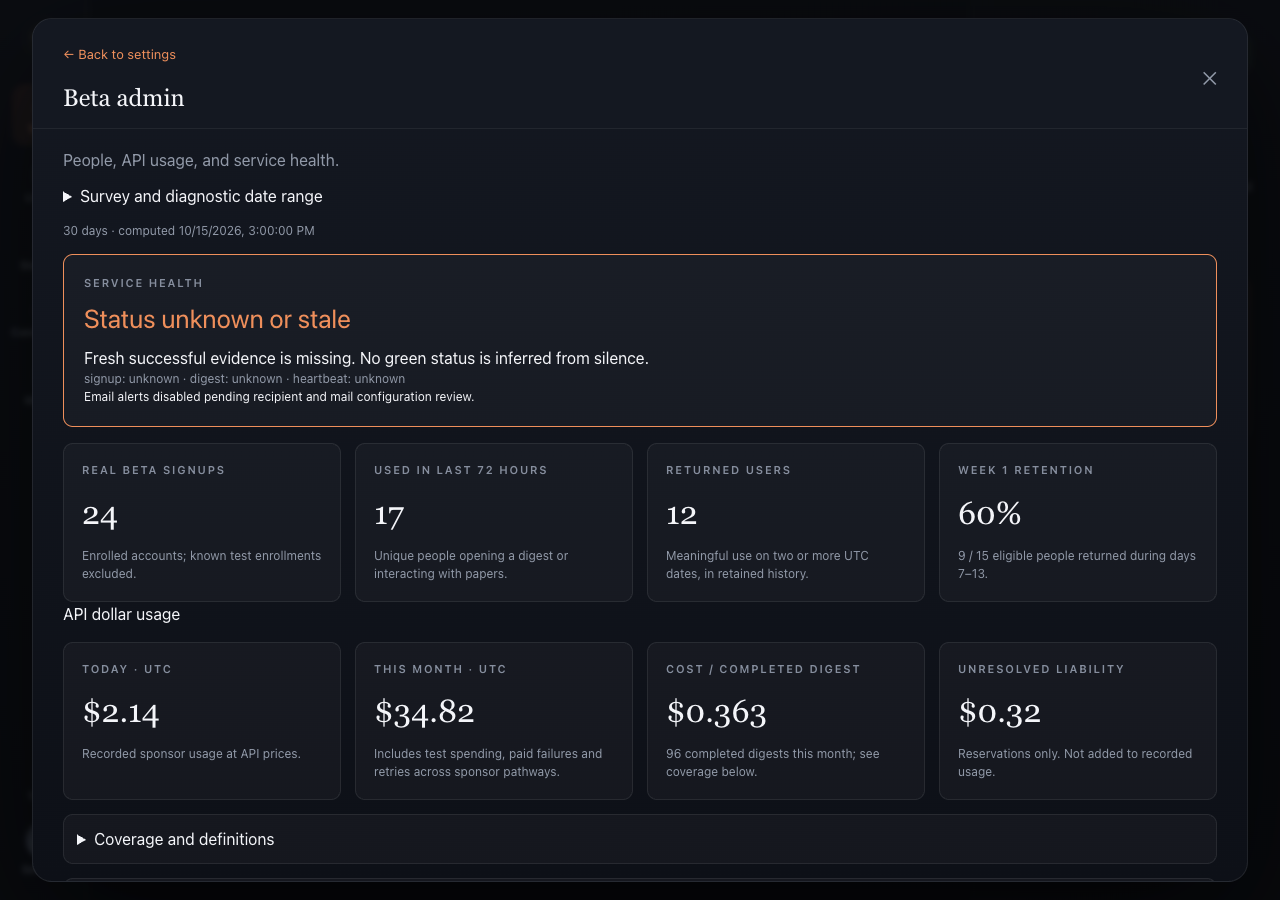
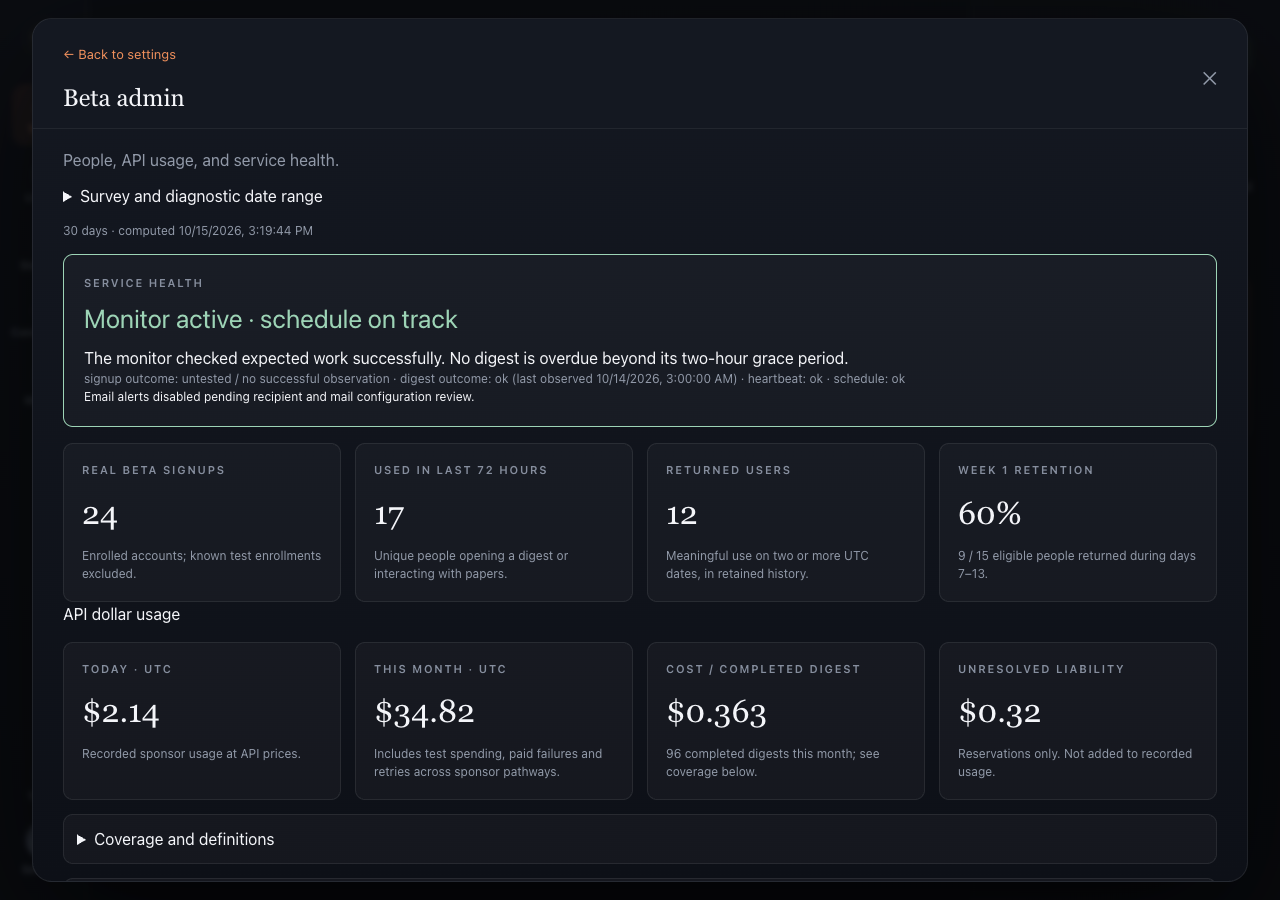
Monitor expected digest work independently of quiet usage

Changed region(s): [[0.0625, 0.3422, 0.6562, 0.4356], [0.1875, 0.2489, 0.25, 0.28], [0.6562, 0.4044, 0.6875, 0.4356]]

diff --git a/src/components/AdminDashboard.jsx b/src/components/AdminDashboard.jsx
@@ -138,17 +138,17 @@ export function ReleaseOverview({ stats }) {
   const a = stats.adoption || {}, s = stats.spend || {}, h = stats.health || {}
   const checks = (h.checks || []).map(c => {
     const age = now - Date.parse(c.checked_at)
-    return { ...c, state: !Number.isFinite(age) || age < 0 ? 'unknown' : age > 900000 ? 'stale' : c.state }
+    return { ...c, state: c.state === 'failed' ? 'failed' : ['heartbeat', 'schedule'].includes(c.name) && (!Number.isFinite(age) || age < 0 || age > 900000) ? 'stale' : c.state }
   })
-  const failed = checks.some(c => c.state === 'failed')
-  const healthy = checks.length === 3 && checks.every(c => c.state === 'ok' && now - Date.parse(c.checked_at) <= 900000 && Date.parse(c.checked_at) <= now) && !h.mail_failed
-  const status = failed ? 'Needs attention' : healthy ? 'Monitored checks passing' : 'Status unknown or stale'
+  const failed = checks.some(c => c.state === 'failed') || h.mail_failed
+  const healthy = ['heartbeat', 'schedule'].every(name => checks.some(c => c.name === name && c.state === 'ok')) && !failed
+  const status = failed ? 'Needs attention' : healthy ? 'Monitor active · schedule on track' : 'Status unknown or stale'
   const color = failed ? '#f0a9a4' : healthy ? 'var(--color-verified-soft)' : 'var(--color-accent)'
   return <>
     <section aria-label="Service health" style={{ ...panel, borderColor: color, padding: 20 }}>
       <p style={eyebrow}>Service health</p><h3 style={{ color, fontSize: 26, margin: '8px 0' }}>{status}</h3>
-      <p style={{ margin: 0 }}> {failed ? 'Repeated failures need investigation.' : healthy ? 'Fresh deterministic checks succeeded. This does not verify external email delivery or model output.' : 'Fresh successful evidence is missing. No green status is inferred from silence.'}</p>
-      <p style={{ fontSize: 12, color: 'var(--color-fg-muted)' }}>{checks.map(c => `${c.name}: ${c.state}`).join(' · ') || 'Monitoring has not reported yet.'}</p>
+      <p style={{ margin: 0 }}> {failed ? 'Sustained failures, overdue work, or alert delivery need investigation.' : healthy ? 'The monitor checked expected work successfully. No digest is overdue beyond its two-hour grace period.' : 'The monitor or expected-work check is missing or stale. Last observed failures remain visible.'}</p>
+      <p style={{ fontSize: 12, color: 'var(--color-fg-muted)' }}>{checks.map(c => `${['signup', 'digest'].includes(c.name) ? c.name + ' outcome' : c.name}: ${c.state === 'unknown' && ['signup', 'digest'].includes(c.name) ? 'untested / no successful observation' : c.state}${['signup', 'digest'].includes(c.name) && c.checked_at ? ' (last observed ' + new Date(c.checked_at).toLocaleString() + ')' : ''}`).join(' · ') || 'Monitoring has not reported yet.'}</p>
       <p style={{ fontSize: 12 }}>{h.mail_failed ? 'Alert delivery failed; operator follow-up required.' : h.alerts_enabled ? 'Incident delivery configured; pending messages: ' + (h.pending_emails || 0) : 'Email alerts disabled pending recipient and mail configuration review.'}</p>
     </section>
     <Cards rows={[
@@ -168,7 +168,7 @@ export function ReleaseOverview({ stats }) {
       <p>Adoption excludes automatic generation, app launches, permission checks, and known test enrollments. Multiple actions count once per person; returned users need two UTC dates. Events are observational and may be incomplete.</p>
       <p>Week 1 retention: all real enrollments after observation began, at least 14 days old; numerator is people with meaningful use in days 7–13 after enrollment. Non-users stay in the denominator. Observation began {a.coverage_since ? new Date(a.coverage_since).toLocaleString() : 'at an unknown time'}. Active access now: {a.access_now ?? 'unknown'} (permission only).</p>
       <p>Average is this month's total sponsor API usage divided by completed scheduled digest-days plus completed non-append browser digests for sponsored accounts. This is an operational blended cost, not exact per-job attribution; it includes other sponsor-paid features, failures, retries, and test work. Completion telemetry can be incomplete. BYOK costs are device-local and excluded. Recorded usage is estimated from token prices or operator reconciliation, not a provider invoice.</p>
-      <p>Monitoring covers beta enrollment responses and scheduled digest outcomes, with a 15-minute freshness limit. It does not probe authentication email delivery, browser-only failures, or provider availability. An absent monitor cannot email about its own outage; the dashboard reports unknown/stale.</p>
+      <p>Monitor and expected-work checks expire after 15 minutes. Signup and digest outcomes are last-observed evidence, not continuous capability tests. Expected work follows the configured local daily hour, active access, and unopened-digest gate; a single slot overdue by two hours is actionable. No weekly scheduler configuration exists in this release. It does not probe authentication email delivery, browser-only failures, or provider availability. An absent monitor cannot email about its own outage; the dashboard reports unknown/stale.</p>
       <p>Provider credit balance, grant consumption versus cash charge: unavailable. {s.released_unknown ?? 0} released attempts have no settled charge; this does not prove zero provider billing. Earliest spend record: {s.first_record || 'none'}.</p>
     </details>
   </>

diff --git a/src/components/AdminDashboard.test.js b/src/components/AdminDashboard.test.js
@@ -97,13 +97,19 @@ describe('AdminDashboard', () => {
 
 for (const [name, checks, expected] of [
   ['missing', [], 'Status unknown or stale'],
-  ['fresh', ['signup','digest','heartbeat'].map(name=>({name,state:'ok',checked_at:new Date().toISOString()})), 'Monitored checks passing'],
-  ['stale', ['signup','digest','heartbeat'].map(name=>({name,state:'ok',checked_at:'2000-01-01T00:00:00Z'})), 'Status unknown or stale'],
-  ['stale failure', [{name:'signup',state:'failed',checked_at:'2000-01-01T00:00:00Z'}], 'Status unknown or stale'],
+  ['fresh', ['signup','digest','heartbeat','schedule'].map(name=>({name,state:'ok',checked_at:new Date().toISOString()})), 'Monitor active · schedule on track'],
+  ['stale', ['signup','digest','heartbeat','schedule'].map(name=>({name,state:'ok',checked_at:'2000-01-01T00:00:00Z'})), 'Status unknown or stale'],
+  ['stale failure', [{name:'signup',state:'failed',checked_at:'2000-01-01T00:00:00Z'}], 'Needs attention'],
   ['sustained failure', [{name:'signup',state:'failed',checked_at:new Date().toISOString()}], 'Needs attention'],
 ]) it(`renders ${name} monitoring honestly`,async()=>{
   await dom.render(React.createElement(ReleaseOverview,{stats:{health:{checks},adoption:{eligible:0},spend:{completed:0}}}))
   expect(dom.text()).toContain(expected)
   expect(dom.text()).toContain('Insufficient history')
   expect(dom.text()).toContain('Unknown')
+})
+
+it('shows quiet schedule health separately from untested signup',async()=>{
+ await dom.render(React.createElement(ReleaseOverview,{stats:{health:{checks:[{name:'signup',state:'unknown'}, {name:'digest',state:'ok',checked_at:'2000-01-01T00:00:00Z'}, ...['heartbeat','schedule'].map(name=>({name,state:'ok',checked_at:new Date().toISOString()}))]}}}))
+ expect(dom.text()).toContain('Monitor active · schedule on track')
+ expect(dom.text()).toContain('untested / no successful observation')
 })

diff --git a/src/lib/betaAdmin.fixture.js b/src/lib/betaAdmin.fixture.js
@@ -4,7 +4,7 @@ export const STATS = {
   generated_at: '2026-10-15T01:00:00+00:00',
   adoption: { signups: 24, active72: 17, returned: 12, eligible: 15, retained: 9, access_now: 24, coverage_since: '2026-09-01T00:00:00Z', complete72: true },
   spend: { today: 2.14, month: 34.82, completed: 96, outstanding: 0.32, released_unknown: 1, first_record: '2026-09-01T00:00:00Z' },
-  health: { checks: ['signup','digest','heartbeat'].map(name => ({name, state:'unknown', checked_at:null})), alerts_enabled:false },
+  health: { checks: [{name:'signup',state:'unknown',checked_at:null},{name:'digest',state:'ok',checked_at:'2026-10-14T10:00:00Z'},...['heartbeat','schedule'].map(name => ({name, state:'ok', checked_at:new Date().toISOString()}))], alerts_enabled:false },
   users: { new_in_range: 2, total: 3, active: 2 },
   scheduled: { ticks: 9, manual_ticks: 1, users_any: 3, users_manual: 1, user_days: 5, generated: 2, empty: 1, failed: 1, unfinished: 1, failure_ticks: 3, retry_ticks: 2, summaries: 6 },
   browser: { runs: 3, users: 2, generated: 2, empty: 1, with_errors: 1, append_runs: 1, summaries: 3 },

diff --git a/supabase/functions/beta-monitor/handler.js b/supabase/functions/beta-monitor/handler.js
@@ -1,6 +1,6 @@
 // No raw error text, account identifier, email, NPI, paper, or event payload enters mail.
 export function incidentEmail(event) {
-  if (!['signup', 'digest', 'heartbeat'].includes(event?.check) || !['incident', 'recovery'].includes(event?.kind)) throw new Error('Invalid alert')
+  if (!['signup', 'digest', 'heartbeat', 'schedule'].includes(event?.check) || !['incident', 'recovery'].includes(event?.kind)) throw new Error('Invalid alert')
   const label = event.kind === 'incident' ? 'Needs attention' : 'Recovered'
   return { subject: `Verastar: ${event.check} — ${label}`, text: `${event.check}: ${label}. Open Beta admin for current monitored evidence. No participant data is included in this message.` }
 }

diff --git a/src/lib/betaMonitor.test.js b/src/lib/betaMonitor.test.js
@@ -34,3 +34,7 @@ describe('deterministic beta monitoring', () => {
     await expect(observeSignup({rpc},503)).resolves.toBeUndefined()
   })
 })
+
+it('formats overdue schedule alerts without participant data', () => {
+ expect(incidentEmail({check:'schedule',kind:'incident',user_id:'private',error:'secret'})).toEqual({subject:'Verastar: schedule — Needs attention',text:'schedule: Needs attention. Open Beta admin for current monitored evidence. No participant data is included in this message.'})
+})

diff --git a/docs/BETA_RELEASE_20261015.md b/docs/BETA_RELEASE_20261015.md
@@ -20,7 +20,7 @@ Targeted regressions cover different-account/same-NPI concurrent requests, both 
 
 ## Verification
 
-- `npm test`: 135 files; 2,582 passed, 3 existing expected failures, 15 existing todo.
+- `npm test`: 135 files; 2,584 passed, 3 existing expected failures, 15 existing todo.
 - `npm run lint`: no new diagnostics (9 baseline errors, 9 baseline warnings).
 - `npm run build`: passed; existing SDK browser-externalization and bundle-size warnings.
 - `npm run bundle:functions`: passed; generated pipeline bundle unchanged.
@@ -32,9 +32,9 @@ Targeted regressions cover different-account/same-NPI concurrent requests, both 
 
 ## Release gates — not executed
 
-1. Approve release, then apply forward migrations `20261015180000_beta_release.sql`, `20261015181000_beta_monitor.sql`, and `20261015182000_beta_release_review.sql` after the existing dashboard migration. Deploy `match-npi`, `redeem-invite`, `digest-run`, `beta-monitor`, and the frontend. Old dashboard RPC remains available during rollout.
+1. Approve release, then apply forward migrations `20261015180000_beta_release.sql`, `20261015181000_beta_monitor.sql`, `20261015182000_beta_release_review.sql`, and `20261015183000_beta_expected_work.sql` after the existing dashboard migration. Deploy `match-npi`, `redeem-invite`, `digest-run`, `beta-monitor`, and the frontend. Old dashboard RPC remains available during rollout.
 2. Approve setting `sponsor_config.npi_enrollment_enabled=true`. It defaults false. Leave the existing enrollment pause/limit and every budget unchanged; no live values were assumed or modified. New NPI accounts inherit existing default daily/monthly caps and are limited by the same global/beta ceilings.
-3. Confirm an alert recipient and verify reuse of the existing SMTP service before enabling delivery. Read-only inspection of live Edge secret **names** found no SMTP or beta-alert settings; schema inspection found no notification-recipient configuration. One allowlisted admin has a confirmed email, but no recipient is designated. The adapter expects `SMTP_HOST`, `SMTP_PORT` (465/587), `SMTP_USER`, `SMTP_PASSWORD`, `SMTP_FROM`, and `BETA_ALERT_RECIPIENT`. These are proposed configuration names, not settings already present. No secret values were exposed, credentials created, or live emails sent. Only after approval/configuration and a controlled delivery check, set both `BETA_ALERTS_ENABLED=true` and `private.beta_alert_config.enabled=true`.
+3. Confirm an alert recipient and approve reusing the existing Resend SMTP provider before enabling delivery. Read-only Auth configuration inspection verified `smtp.resend.com`, port 465, with SMTP user/password and sender fields populated; the custom send-email hook is disabled. These credentials are configured for Supabase Auth only, not currently exposed to app Edge Functions. No credential value or sender address was printed. Provider credential scope and approved app reuse remain unverified; no new provider is required by this implementation. Read-only inspection of live Edge secret **names** found no SMTP or beta-alert settings; schema inspection found no notification-recipient configuration. One allowlisted admin has a confirmed email, but no recipient is designated. The adapter expects `SMTP_HOST`, `SMTP_PORT` (465/587), `SMTP_USER`, `SMTP_PASSWORD`, `SMTP_FROM`, and `BETA_ALERT_RECIPIENT`. These are proposed configuration names, not settings already present. No secret values were exposed, credentials created, or live emails sent. Only after approval/configuration and a controlled delivery check, set both `BETA_ALERTS_ENABLED=true` and `private.beta_alert_config.enabled=true`.
 4. Approve an independent monitor invocation every five minutes using the service role. No job was installed and the digest scheduling policy was not changed. `beta-monitor` accepts POST and requires the service-role bearer token in addition to the gateway check.
 
 ## Exact operational limits
@@ -45,7 +45,13 @@ The exact known smoke cohort is excluded from adoption; its earlier survey is ex
 
 The blended average uses current-month sponsor ledger usage (all features/failures/retries/test work) divided by recorded completed scheduled user-days plus non-append browser digest completions for sponsored accounts. This is not precise per-job attribution, not a provider invoice, and not a claim that grant usage is cash charged. Released unpriced attempts remain disclosed separately.
 
-Green requires all three checks to have fresh success within 15 minutes and no unresolved mail failure. Low traffic can legitimately leave enrollment/digest evidence stale. Enrollment monitoring covers the redeem endpoint, not Supabase's general auth/OTP delivery; digest monitoring covers scheduled outcomes, not every browser failure. Overdue means an enabled active schedule has no completion/update for 26 hours. Three failures spanning at least five minutes within 30 minutes open one incident; one success queues one recovery. No routine success email. A stopped monitor cannot email about its own absence; admin shows unknown/stale.
+Green now means **Monitor active · schedule on track**: heartbeat and expected-work checks succeeded within 15 minutes, no sustained incident remains open, and no unresolved mail failure exists. Signup/digest outcomes remain separately labeled last-observed evidence (with timestamps), or untested; normal inactivity does not expire them or prove signup capability. Sustained failures stay red until recovery, even if monitoring later stops.
+
+Expected work uses the existing local daily hour/timezone, active access, and unopened-digest gate. The actual scheduler has no weekly cadence or next-due column; no weekly policy was invented. An unopened completed digest may wait more than a week without overdue status. A newly opened old digest receives a fresh two-hour grace period. A single expected slot overdue by two hours opens one schedule incident immediately, without needing repeated digest attempts; repeated ticks deduplicate it and resolved expected work produces one recovery. Invalid timezones cannot produce a passing check. Enrollment/digest outcome incidents still require three failures spanning five minutes within 30 minutes. No scheduling policy, ranking, verifier, or summary behavior changed. An absent monitor cannot email about its own outage; the dashboard marks its heartbeat stale.
+
+Independent follow-up review also corrected completion-before-hour, activation-after-hour, and opening-before-hour cases. A stable monitor activation timestamp prevents failed retries from postponing the first expected digest; existing schedules receive a rollout grace period.
+
+Follow-up verification: 20 focused UI/monitor tests passed, full disposable admin/release SQL contracts passed (quiet daily, future due, single stuck digest, incident/recovery dedupe, week-long unopened wait, newly opened grace, invalid timezone, stale heartbeat), full suite 2,584 passed (3 existing expected failures, 15 todo), all browser shell scenarios passed with refreshed desktop/mobile images, build passed, lint has no new diagnostics.
 
 Outbox claims are serialized and at most once. SMTP acceptance is not inbox delivery; uncertain/failed sends are marked visibly and held for operator review rather than automatically resent. Verify provider delivery before manually retrying a claimed message. These deliberate limits prevent duplicate incident email after an uncertain send.
 
